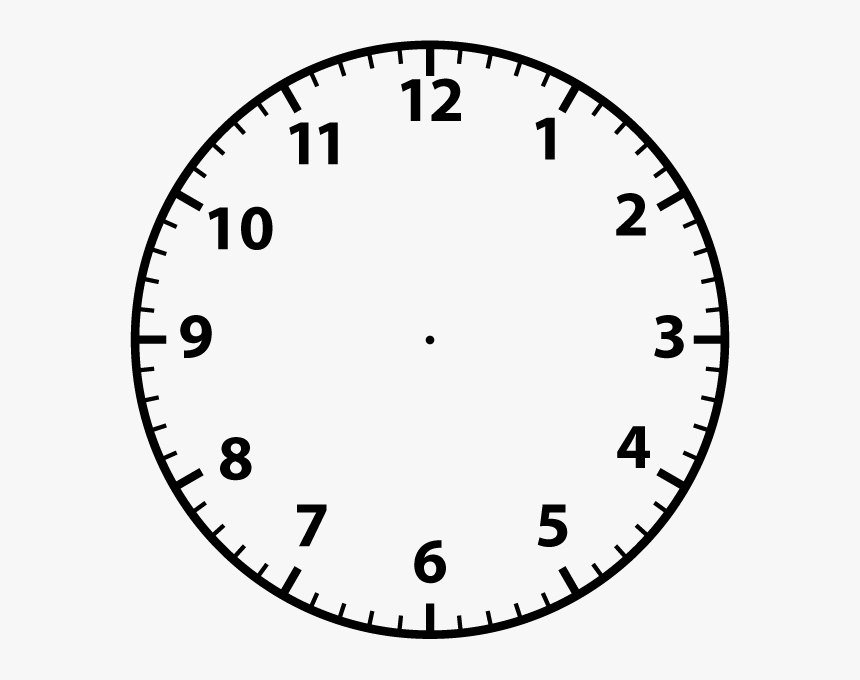
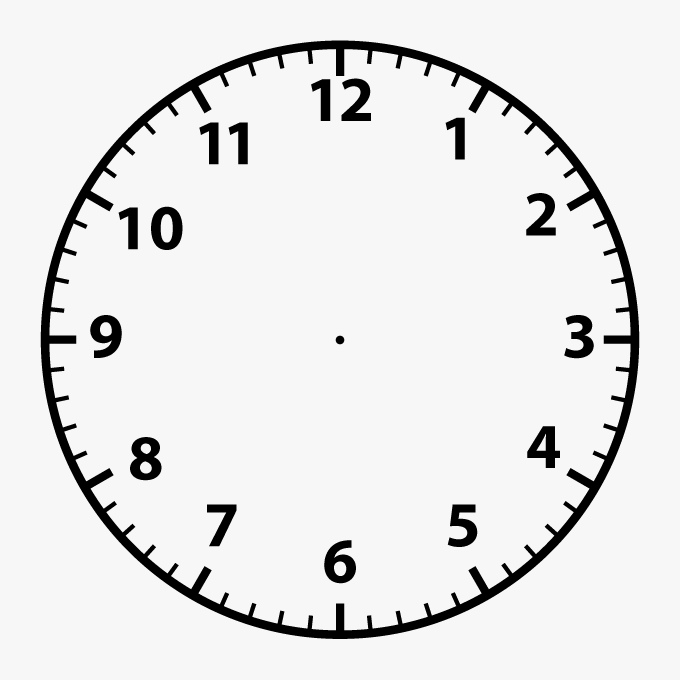
puts clock

diff --git a/lib/presentation/screens/home/home_screen.dart b/lib/presentation/screens/home/home_screen.dart
@@ -9,42 +9,42 @@ class HomeScreen extends StatefulWidget {
 }
 
 class _HomeScreenState extends State<HomeScreen> {
+  int? _hour;
   late final PainterController _controller;
 
   @override
   void initState() {
     _controller = PainterController();
-    _controller.thickness = 5.0;
+    _controller.thickness = 10;
     _controller.backgroundColor = Colors.transparent;
     super.initState();
   }
 
   @override
-  Widget build(BuildContext context) {
-    return Scaffold(
-      appBar: AppBar(
-        title: const Text('Painter Example'),
-        actions: [
-          IconButton(
-            icon: const Icon(Icons.delete),
-            onPressed: _controller.clear,
-          ),
-        ],
-      ),
-      body: Stack(
-        children: [
-          Center(
-            child: Container(
-              height: 100,
-              width: 100,
-              color: Colors.amber,
+  Widget build(BuildContext context) => Scaffold(
+        appBar: AppBar(
+          title: const Text('Dementia Test'),
+          actions: [
+            IconButton(
+              icon: const Icon(Icons.delete),
+              onPressed: _controller.clear,
             ),
-          ),
-          Painter(_controller),
-        ],
-      ),
-    );
-  }
+          ],
+        ),
+        body: Column(
+          children: [
+            SizedBox(
+              height: 400,
+              child: Stack(
+                children: [
+                  Center(child: Image.asset('assets/clock.png')),
+                  Painter(_controller),
+                ],
+              ),
+            ),
+          ],
+        ),
+      );
 
   @override
   void dispose() {
